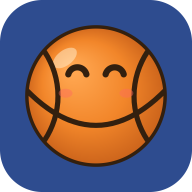
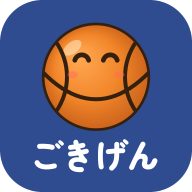
Add files via upload

diff --git a/sw.js b/sw.js
@@ -1,7 +1,7 @@
 /* ご機嫌ライフスキル10 — offline support.
    Pages: network first (updates arrive right away), cached copy when offline.
    Icons and fonts: cache first. Bump CACHE when icons or this file change. */
-var CACHE = "gokigen10-v2";
+var CACHE = "gokigen10-v3";
 var CORE = [
   "./",
   "./index.html",
